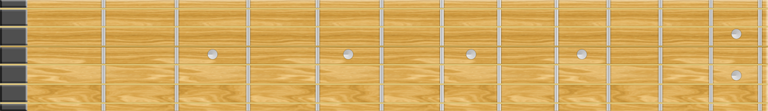
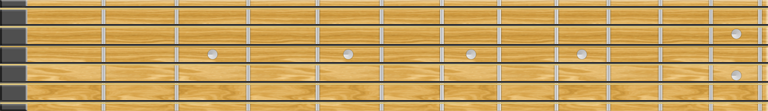
Кнопки и изображение грифа переделаны под JLayeredPane; в новый класс Notes внесены все ноты грифа с названиями и координатами; добавлена функция выбора случайной ноты и ее отображения на грифе (пока не работает).

diff --git a/GuitarTrainer/src/guitartrainer/Frame.java b/GuitarTrainer/src/guitartrainer/Frame.java
@@ -1,79 +1,97 @@
 package guitartrainer;
 
+import java.awt.Color;
+import java.awt.Dimension;
+import java.util.Random;
+import javax.swing.BorderFactory;
 import javax.swing.ImageIcon;
 import javax.swing.JButton;
 import javax.swing.JFrame;
 import javax.swing.JLabel;
+import javax.swing.JLayeredPane;
 
 public class Frame extends JFrame{
     
     Frame(){
         super("GuitarTrainer");
-        setBounds(100, 100, 768, 600);
+        setBounds(100, 100, 784, 600);
         setDefaultCloseOperation(JFrame.EXIT_ON_CLOSE);
-        /*
-        ImageIcon guitar = new ImageIcon("guitar.png");
-        JLabel wallpaper = new JLabel(guitar);
-        getContentPane().add(wallpaper);
-        wallpaper.setBounds(0, 0, 768, 600);
-        setResizable(false);
-        */
+        
+        JLayeredPane lPane = getLayeredPane();
+        
         ImageIcon grif = new ImageIcon("grif.png");
         JLabel fretboard = new JLabel(grif);
-        getContentPane().setLayout(null);
-        getContentPane().add(fretboard);
-        fretboard.setBounds(0, 0, 768, 200);
+        fretboard.setBounds(0, 0, 769, 200);
+        lPane.add(fretboard, new Integer(2));
         
         JButton noteC = new JButton("C");
-        getContentPane().add(noteC);
         noteC.setBounds(100, 200, 70, 30);
+        lPane.add(noteC, new Integer(2));
         
         JButton noteCD = new JButton("C#/Db");
-        getContentPane().add(noteCD);
         noteCD.setBounds(200, 200, 70, 30);
+        lPane.add(noteCD, new Integer(2));
         
         JButton noteD = new JButton("D");
-        getContentPane().add(noteD);
         noteD.setBounds(300, 200, 70, 30);
+        lPane.add(noteD, new Integer(2));
         
         JButton noteDE = new JButton("D#/Eb");
-        getContentPane().add(noteDE);
         noteDE.setBounds(400, 200, 70, 30);
+        lPane.add(noteDE, new Integer(2));
         
         JButton noteE = new JButton("E");
-        getContentPane().add(noteE);
         noteE.setBounds(500, 200, 70, 30);
+        lPane.add(noteE, new Integer(2));
         
         JButton noteF = new JButton("F");
-        getContentPane().add(noteF);
         noteF.setBounds(600, 200, 70, 30);
+        lPane.add(noteF, new Integer(2));
         
         JButton noteFG = new JButton("F#/Gb");
-        getContentPane().add(noteFG);
         noteFG.setBounds(100, 260, 70, 30);
+        lPane.add(noteFG, new Integer(2));
         
         JButton noteG = new JButton("G");
-        getContentPane().add(noteG);
         noteG.setBounds(200, 260, 70, 30);
+        lPane.add(noteG, new Integer(2));
         
         JButton noteGA = new JButton("G#/Ab");
-        getContentPane().add(noteGA);
         noteGA.setBounds(300, 260, 70, 30);
+        lPane.add(noteGA, new Integer(2));
         
         JButton noteA = new JButton("A");
-        getContentPane().add(noteA);
         noteA.setBounds(400, 260, 70, 30);
+        lPane.add(noteA, new Integer(2));
         
         JButton noteAB = new JButton("A#/Bb");
-        getContentPane().add(noteAB);
         noteAB.setBounds(500, 260, 70, 30);
+        lPane.add(noteAB, new Integer(2));
         
         JButton noteB = new JButton("B");
-        getContentPane().add(noteB);
         noteB.setBounds(600, 260, 70, 30);
+        lPane.add(noteB, new Integer(2));
         
         JButton replay = new JButton("Replay");
-        getContentPane().add(replay);
-        replay.setBounds(20, 530, 100, 30);
+        replay.setBounds(20, 520, 100, 30);
+        lPane.add(replay, new Integer(2));
+        
+        Notes notes = new Notes();
+        randomNote(notes.notes, lPane);
+    }
+    
+    public void randomNote(Note notes[][], JLayeredPane lP){
+        Random r = new Random(System.currentTimeMillis());
+        int i = -1, j = -1;
+        while(i < 0 || i > 5){
+            i = r.nextInt() % 10;
+        }
+        while(j < 0 || j > 11){
+            j = r.nextInt() % 100;
+        }
+        ImageIcon tap = new ImageIcon("tap.png");
+        JLabel note = new JLabel(tap);
+        note.setBounds(i, j, 7, 5);
+        lP.add(note, new Integer(3));
     }
 }

diff --git a/GuitarTrainer/src/guitartrainer/Notes.java b/GuitarTrainer/src/guitartrainer/Notes.java
@@ -1,0 +1,107 @@
+package guitartrainer;
+
+public class Notes {
+    public Note[][] notes = new Note[6][12];
+    
+    public Notes(){
+        notes[0][0].setName("F");
+        notes[0][1].setName("F#/Gb");
+        notes[0][2].setName("G");
+        notes[0][3].setName("G#/Ab");
+        notes[0][4].setName("A");
+        notes[0][5].setName("A#/Bb");
+        notes[0][6].setName("B");
+        notes[0][7].setName("C");
+        notes[0][8].setName("C#/Db");
+        notes[0][9].setName("D");
+        notes[0][10].setName("D#/Eb");
+        notes[0][11].setName("E");
+        notes[1][0].setName("C");
+        notes[1][1].setName("C#/Db");
+        notes[1][2].setName("D");
+        notes[1][3].setName("D#/Eb");
+        notes[1][4].setName("E");
+        notes[1][5].setName("F");
+        notes[1][6].setName("F#/Gb");
+        notes[1][7].setName("G");
+        notes[1][8].setName("G#/Ab");
+        notes[1][9].setName("A");
+        notes[1][10].setName("A#/Bb");
+        notes[1][11].setName("B");
+        notes[2][0].setName("G#/Ab");
+        notes[2][1].setName("A");
+        notes[2][2].setName("A#/Bb");
+        notes[2][3].setName("B");
+        notes[2][4].setName("C");
+        notes[2][5].setName("C#/Db");
+        notes[2][6].setName("D");
+        notes[2][7].setName("D#/Eb");
+        notes[2][8].setName("E");
+        notes[2][9].setName("E#/Fb");
+        notes[2][10].setName("F");
+        notes[2][11].setName("G");
+        notes[3][0].setName("D#/Eb");
+        notes[3][1].setName("E");
+        notes[3][2].setName("F");
+        notes[3][3].setName("F#/Gb");
+        notes[3][4].setName("G");
+        notes[3][5].setName("G#/Ab"); 
+        notes[3][6].setName("A");
+        notes[3][7].setName("A#/Bb");
+        notes[3][8].setName("B");
+        notes[3][9].setName("C");
+        notes[3][10].setName("C#/Db");
+        notes[3][11].setName("D");
+        notes[4][0].setName("A#/Bb");
+        notes[4][1].setName("B");
+        notes[4][2].setName("C");
+        notes[4][3].setName("C#/Db"); 
+        notes[4][4].setName("D");
+        notes[4][5].setName("D#/Eb");
+        notes[4][6].setName("E");
+        notes[4][7].setName("F");
+        notes[4][8].setName("F#/Gb");
+        notes[4][9].setName("G");
+        notes[4][10].setName("G#/Ab");
+        notes[4][11].setName("A");
+        notes[5][0].setName("F");
+        notes[5][1].setName("F#/Gb");
+        notes[5][2].setName("G");
+        notes[5][3].setName("G#/Ab");
+        notes[5][4].setName("A");
+        notes[5][5].setName("A#/Bb");
+        notes[5][6].setName("B");
+        notes[5][7].setName("C");
+        notes[5][8].setName("C#/Db");
+        notes[5][9].setName("D");
+        notes[5][10].setName("D#/Eb");
+        notes[5][11].setName("E");
+        
+        for(int i = 0; i < 6; i ++){
+            for(int j = 0; j < 12; j ++){
+                switch(i){
+                    case 0: {notes[i][j].setY(76); break;}
+                    case 1: {notes[i][j].setY(94); break;}
+                    case 2: {notes[i][j].setY(114); break;}
+                    case 3: {notes[i][j].setY(132); break;}
+                    case 4: {notes[i][j].setY(151); break;}
+                    case 5: {notes[i][j].setY(170); break;}
+                }
+                switch(j){
+                    case 0: {notes[i][j].setX(62); break;}
+                    case 1: {notes[i][j].setX(137); break;}
+                    case 2: {notes[i][j].setX(210); break;}
+                    case 3: {notes[i][j].setX(280); break;}
+                    case 4: {notes[i][j].setX(347); break;}
+                    case 5: {notes[i][j].setX(408); break;}
+                    case 6: {notes[i][j].setX(468); break;}
+                    case 7: {notes[i][j].setX(525); break;}
+                    case 8: {notes[i][j].setX(580); break;}
+                    case 9: {notes[i][j].setX(632); break;}
+                    case 10:{notes[i][j].setX(683); break;}
+                    case 11:{notes[i][j].setX(733); break;}
+                }
+            }
+        }
+    }
+}

diff --git a/GuitarTrainer/src/guitartrainer/Note.java b/GuitarTrainer/src/guitartrainer/Note.java
@@ -1,0 +1,18 @@
+package guitartrainer;
+
+public class Note {
+    private String name;
+    private int x, y;
+    
+    public void setName(String newName){
+        name = newName;
+    }
+    
+    public void setX(int newX){
+        x = newX;
+    }
+    
+    public void setY(int newY){
+        y = newY;
+    }
+}
